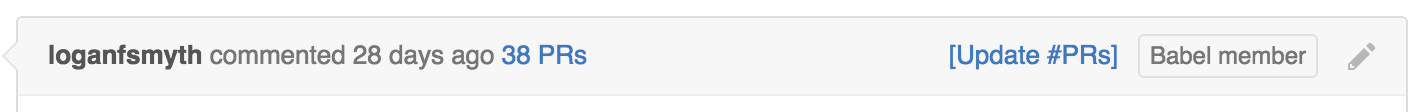
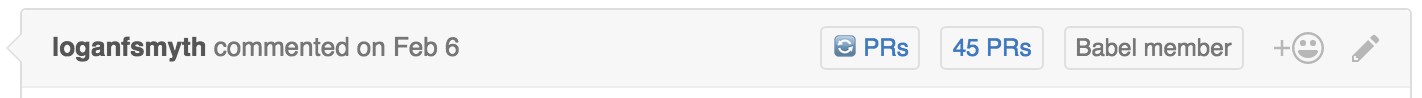
update name, pictures

Changed region(s): [[0.0, 0.0612, 1.0, 1.0], [0.0309, 0.3673, 0.4332, 0.6429]]

diff --git a/src/options.html b/src/options.html
@@ -2,7 +2,7 @@
 <html>
   <head>
     <meta charset="utf-8">
-    <title>Contributor Stats on Github</title>
+    <title>Contributors on Github</title>
     <style>
       input[type='text'] {
         width: 100%;
@@ -29,7 +29,7 @@
         <a id="use-oauth">Use OAuth</a>
       </h1>
       <p class="description">Or</p>
-      <p class="description"> <a id="gh_link" href="https://github.com/settings/tokens/new?scopes=public_repo&description=Contributor Stats on Github" target="gh_target">Create a github auth token</a> with the <strong>"public_repo"</strong> permission.</p>
+      <p class="description"> <a id="gh_link" href="https://github.com/settings/tokens/new?scopes=public_repo&description=Contributors on Github" target="gh_target">Create a github auth token</a> with the <strong>"public_repo"</strong> permission.</p>
       <h1>Access Token</h1>
       <input type="text" id="token-input" placeholder="Paste your access token here">
       <p id="feedback"></p>

diff --git a/README.md b/README.md
@@ -1,4 +1,4 @@
-# Contributor Stats on Github
+# Contributors on Github
 
 > Mainly to show if it's a contributors first PR (right now it's specific to the repo, not in general).
 
@@ -22,15 +22,15 @@ You can click on `[Update PRs]` to update the number if it has changed (the numb
 
 If necessary, you may want to create or get a "access token" that uses the `public_repo` permission if you want to use a 30/min rate limit instead of 10/min.
 
-> If you want to use this on private repos then you'll need to add the `repo` permission instead.
+> If you want to use this on private repos then you'll need to add the `repo` permission instead. I would recommend installing locally for this.
 
 <img src="options.png" alt="options" height="300px">
 
 #### Permissions
-- "activeTab": to add the first PR text to the active tab
-- "storage", to store access token, cache user PR data
-- "webNavigation", to listen for `History.pushState` events
-    - The [content script](src/index.js) was matching `"https://github.com/*/*/pull/*` which is correct, but if you start from the hompage, then the script won't ever be injected since github is using pushState to change urls. Now it will match `https://github.com` and then check for the specific url.
+- "https://github.com/*/*": to be able to inject data into github
+  - The [content script](src/content.js) was matching `"https://github.com/*/*/pull/*` which is correct, but if you start from the hompage, then the script won't ever be injected since github is using pushState to change urls. Now it will match `https://github.com` and then check for the specific url.
+- "storage", to store access token, cache user PR data.
+- "identity", to create an oauth request window.
  
 #### Install
 
@@ -47,9 +47,7 @@ If necessary, you may want to create or get a "access token" that uses the `publ
 
 Now try it out!
 
-You can also click on the Options to set your `access_token` if you need to!
-
-Used https://github.com/GoogleChrome/chrome-app-samples/tree/master/samples/github-auth, https://github.com/ekonstantinidis/gitify, https://github.com/sindresorhus/notifier-for-github-chrome for reference.
+Used https://github.com/GoogleChrome/chrome-app-samples/tree/master/samples/github-auth, https://github.com/sindresorhus/notifier-for-github-chrome for reference.
 
 #### LICENSE
 MIT
